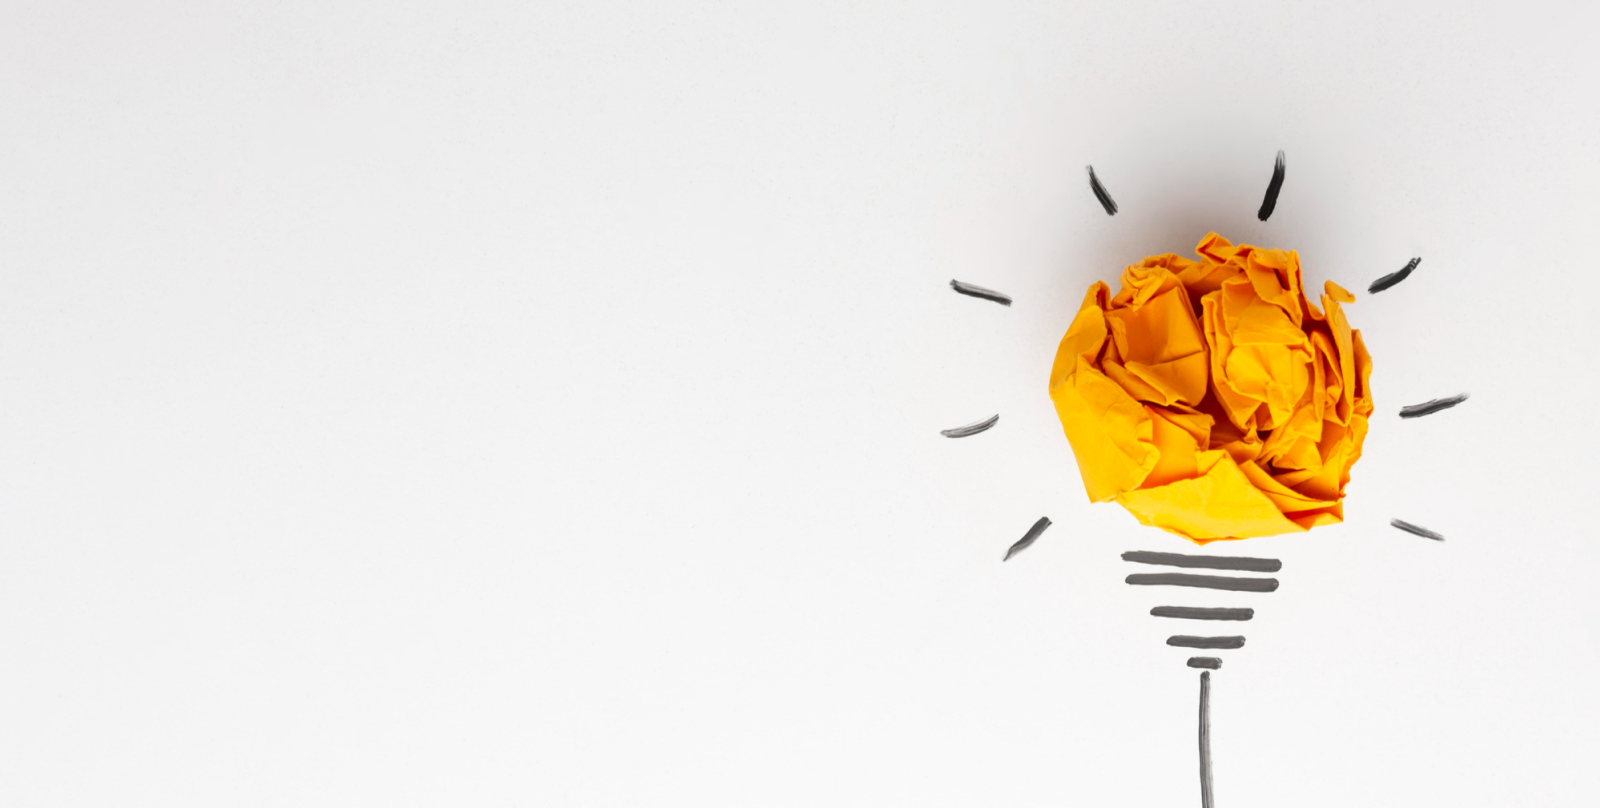
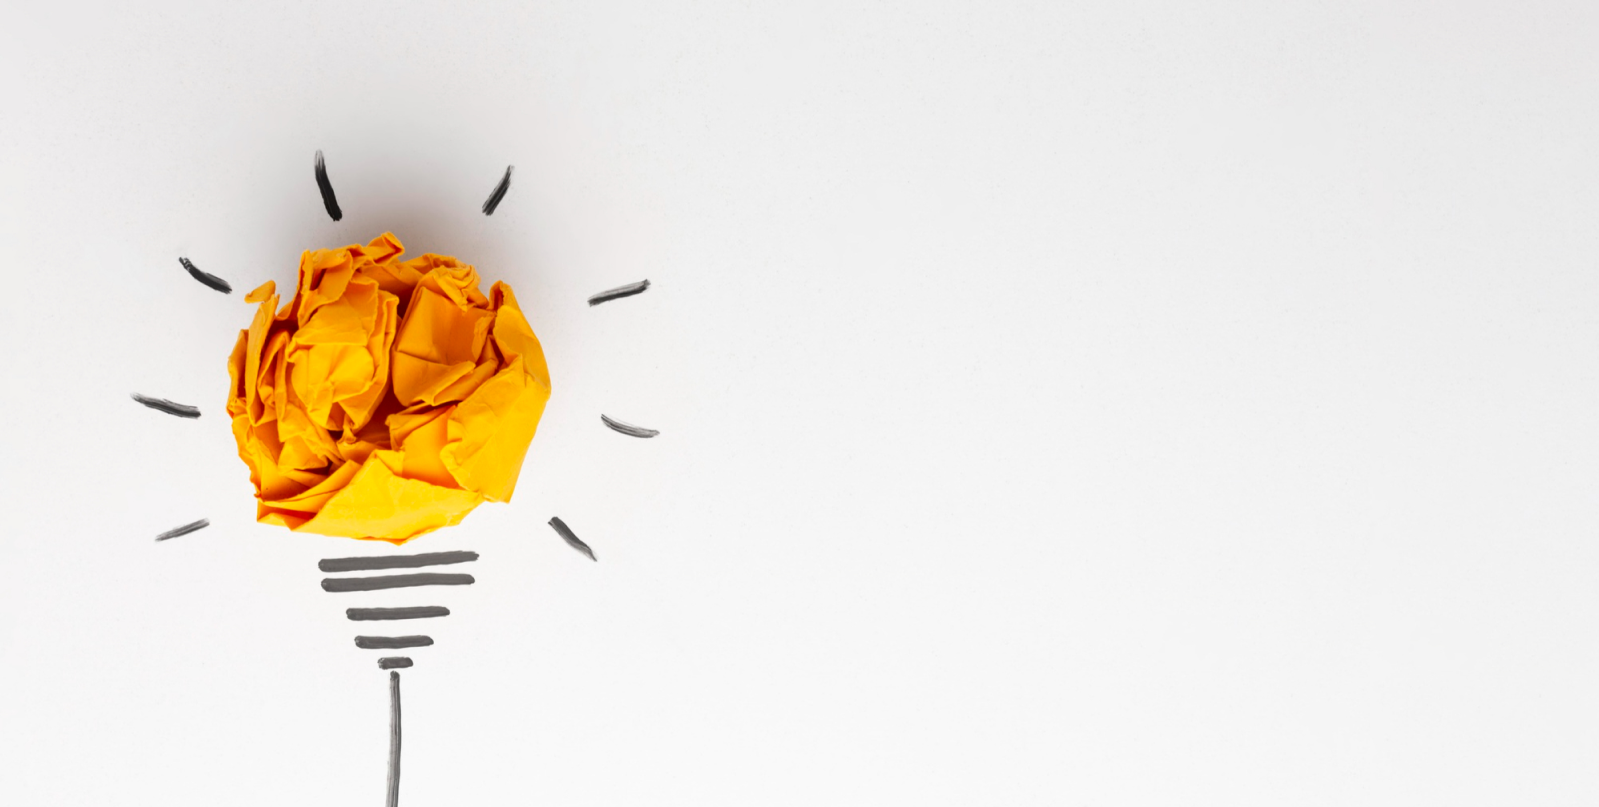
header fliped

diff --git a/styles/style.css b/styles/style.css
@@ -16,10 +16,13 @@ body{
     background-repeat:no-repeat;
     padding: 0px;
     margin: 0px;
+    
 }
 .header .container{
-   
-    padding: 216px 0px 166px 100px;
+    text-align: right;
+    padding-top: 130px;
+    padding-left: 53%;
+    padding-right: 8%;
     
 }
 .header .title{
@@ -34,7 +37,8 @@ body{
     font-weight: 900px;
 }
 .header .description{
-    width: 494px;
+padding-right: 0px;
+width: 520px;
 height: 78px;
 font-weight: 400;
 font-size: 16px;
